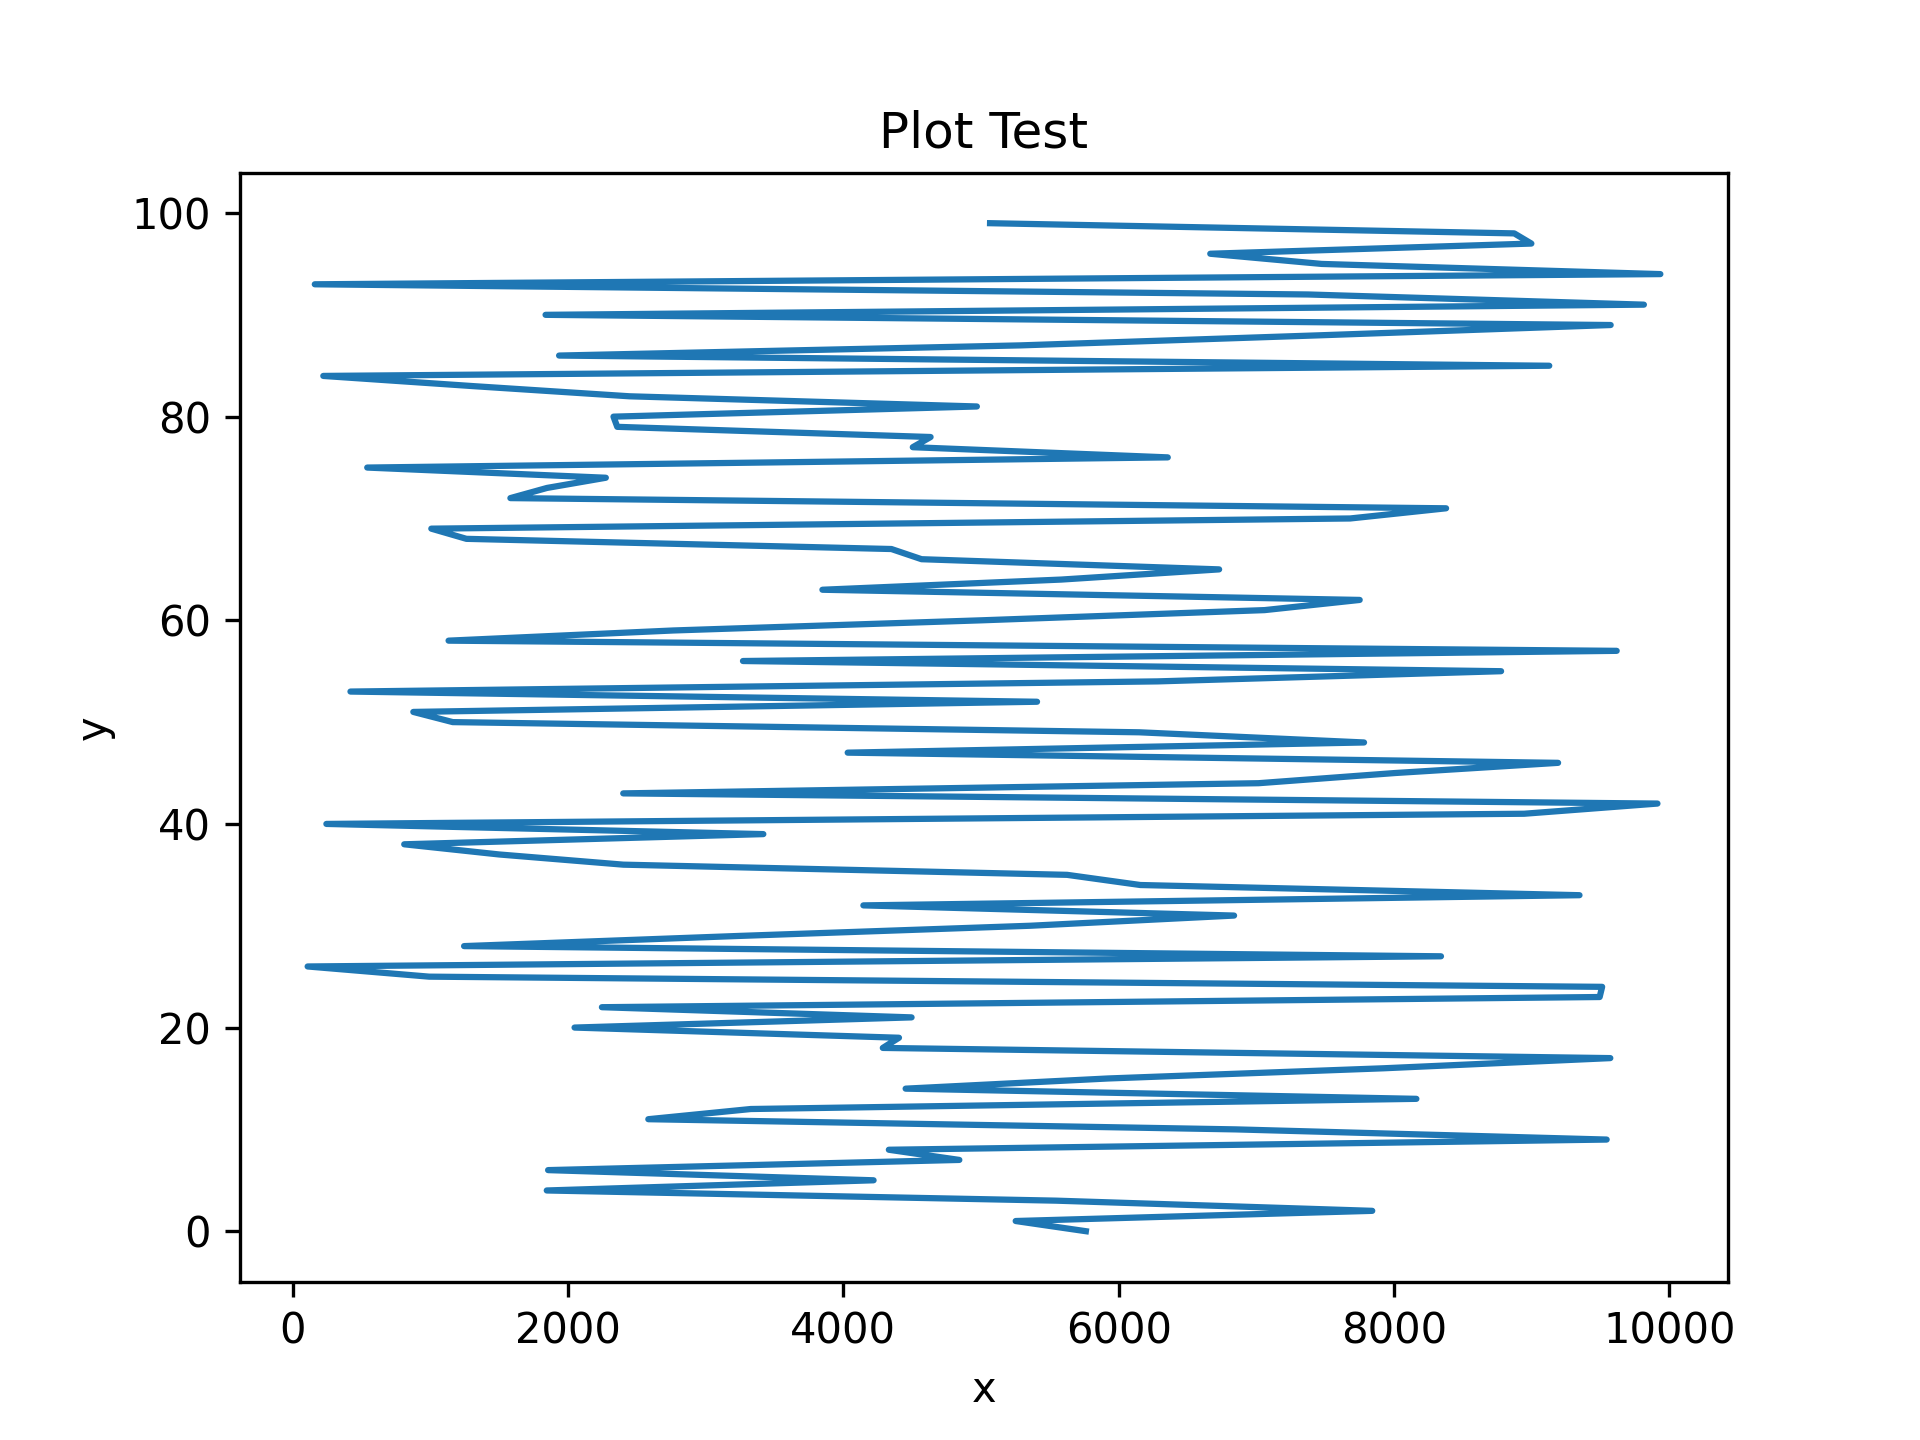
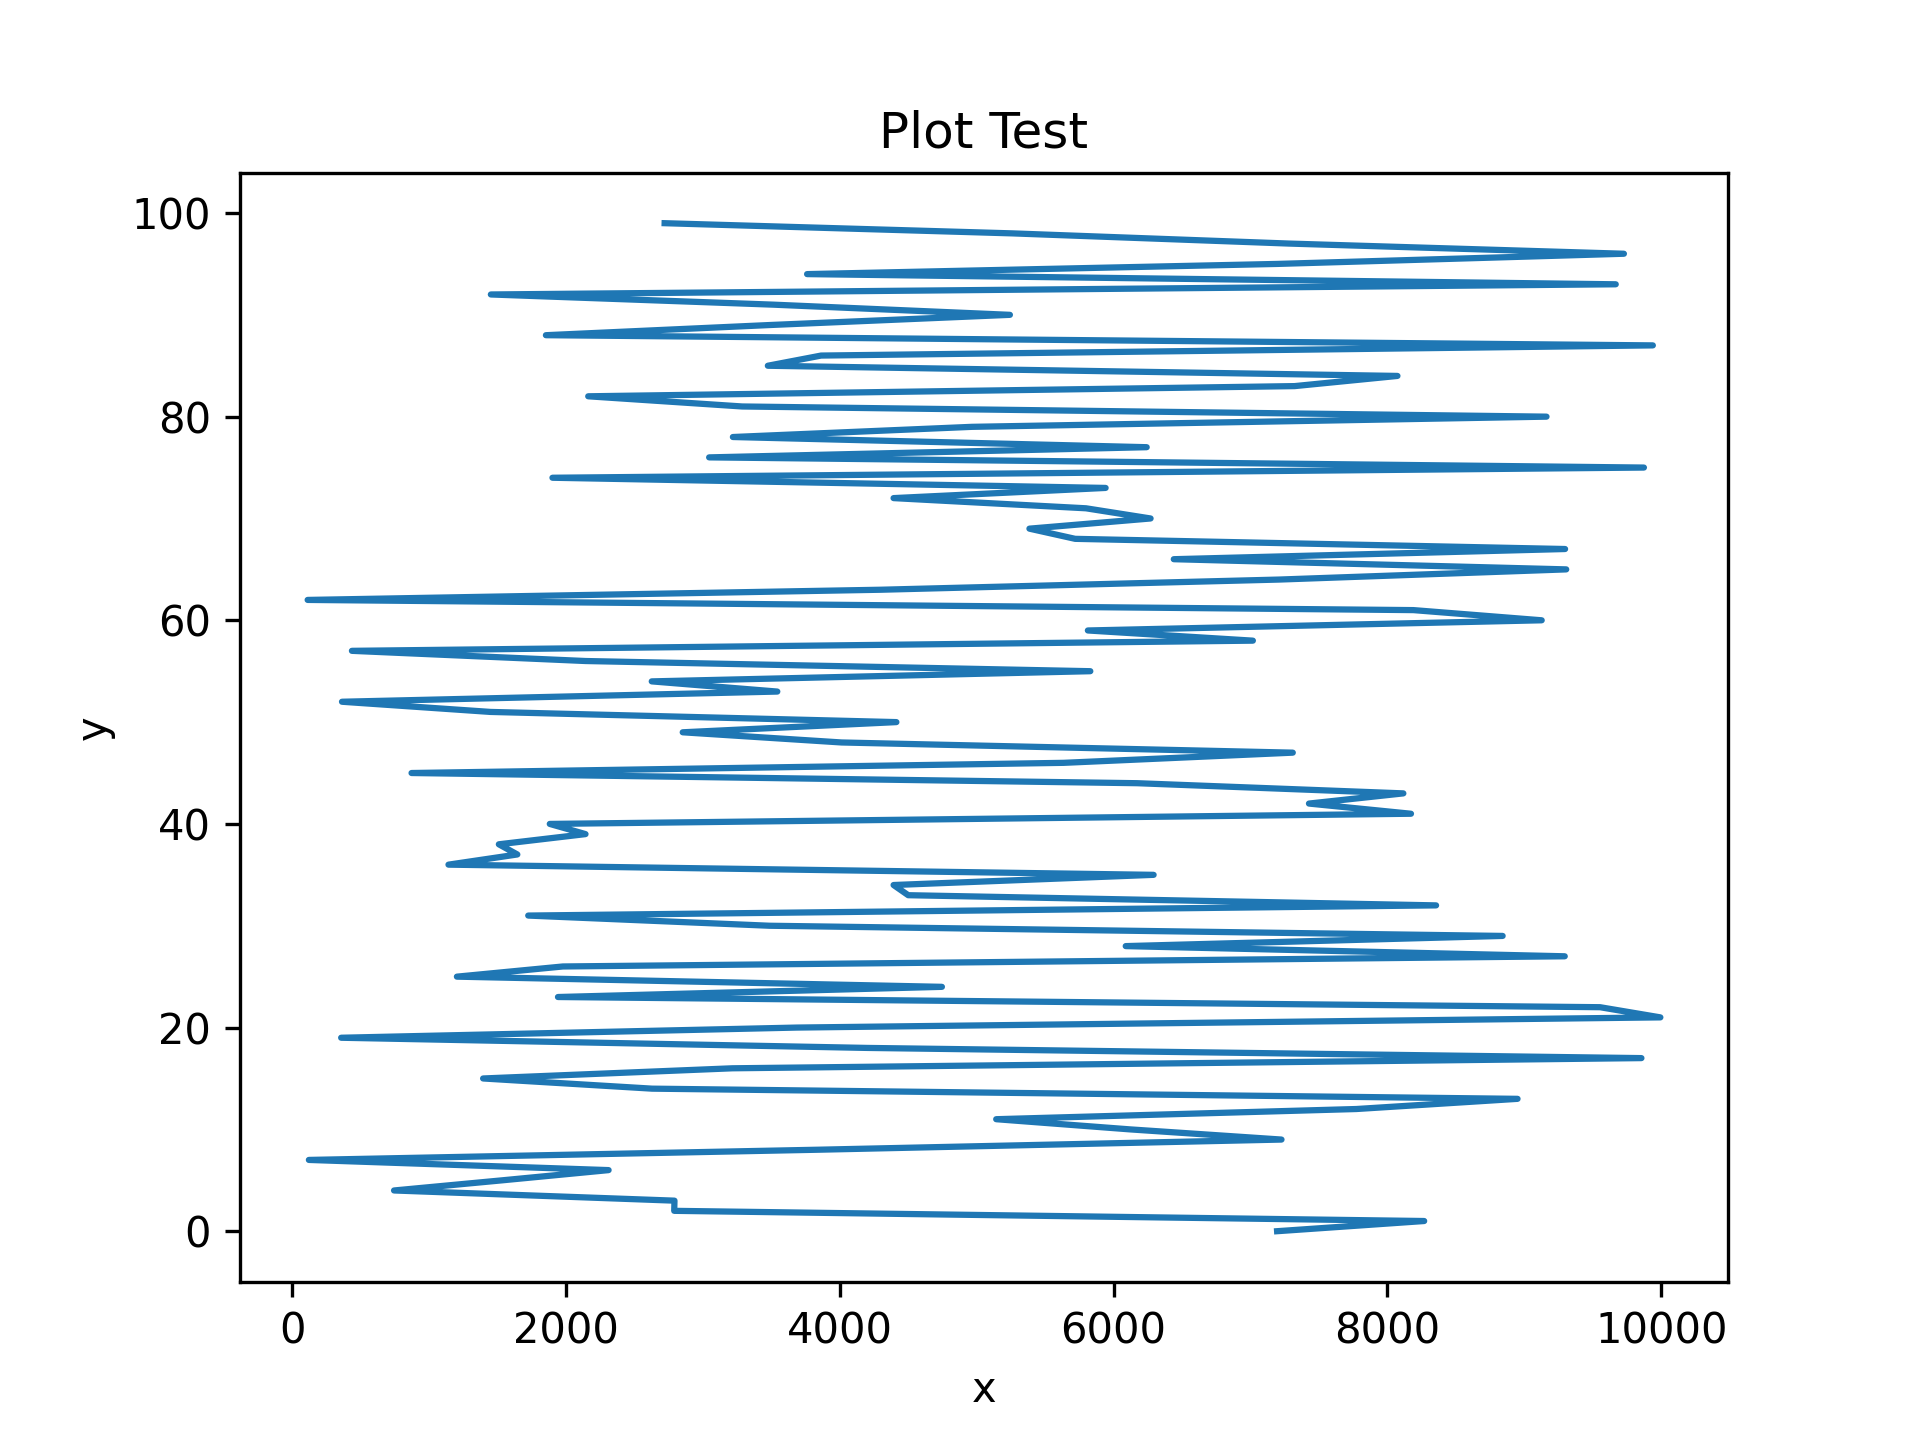
pandas examples barchart and linechart

diff --git a/project/graphics/examples/pandas-barchart.py b/project/graphics/examples/pandas-barchart.py
@@ -1,8 +1,15 @@
 import matplotlib.pyplot as plt
 import pandas as pd
-import sys
+import os
 
-# you can also do this: from matplotlib import pyplot as plt
+
+def save():
+    name = os.path.basename(__file__).replace(".py", "")
+    plt.savefig(f"images/{name}.png", dpi=300)
+    plt.savefig(f"images/{name}.pdf")
+    plt.savefig(f"images/{name}.svg")
+    plt.show()
+    
 
 data = {'Rock': 136, 'Rap': 112, 'Folk': 110, 'Indie': 90, 'Jazz': 25}
 categories = data.keys()
@@ -13,8 +20,6 @@ df = df.transpose()
 
 df.columns = ["Categories","Count"]
 df.set_index("Categories")
-
-print(df.head())
 
 # Creating the bar chart
 df.plot.bar(
@@ -30,4 +35,5 @@ df.plot.bar(
 plt.xlabel("Genre of Music")
 plt.ylabel("Number of songs in the genre")
 plt.title("Distribution of Genres in My Liked Songs")
-plt.show()
+
+save()

diff --git a/project/graphics/examples/pandas-linechart.py b/project/graphics/examples/pandas-linechart.py
@@ -1,0 +1,32 @@
+import matplotlib.pyplot as plt
+import pandas as pd
+import random
+import os
+
+def save ():
+    name = os.path.basename(__file__).replace(".py", "")
+    plt.savefig(f"images/{name}.png", dpi=300)
+    plt.savefig(f"images/{name}.pdf")
+    plt.savefig(f"images/{name}.svg")
+    plt.show()
+
+x = []
+for i in range(0, 100):
+    value = random.random() * 10000
+    x.append(value)
+
+# creating a list of 100 numbers in order from 0 to 100
+y = []
+for j in range(0, 100):
+    y.append(j)
+
+df = pd.DataFrame({'x':x, 'y':y})
+print(df.head())
+
+# creating the plot and labeling axes and title
+df.plot.line(x='x', y='y')
+# plt.xlabel("x")
+plt.ylabel("y")
+plt.title("Plot Test")
+
+save()
